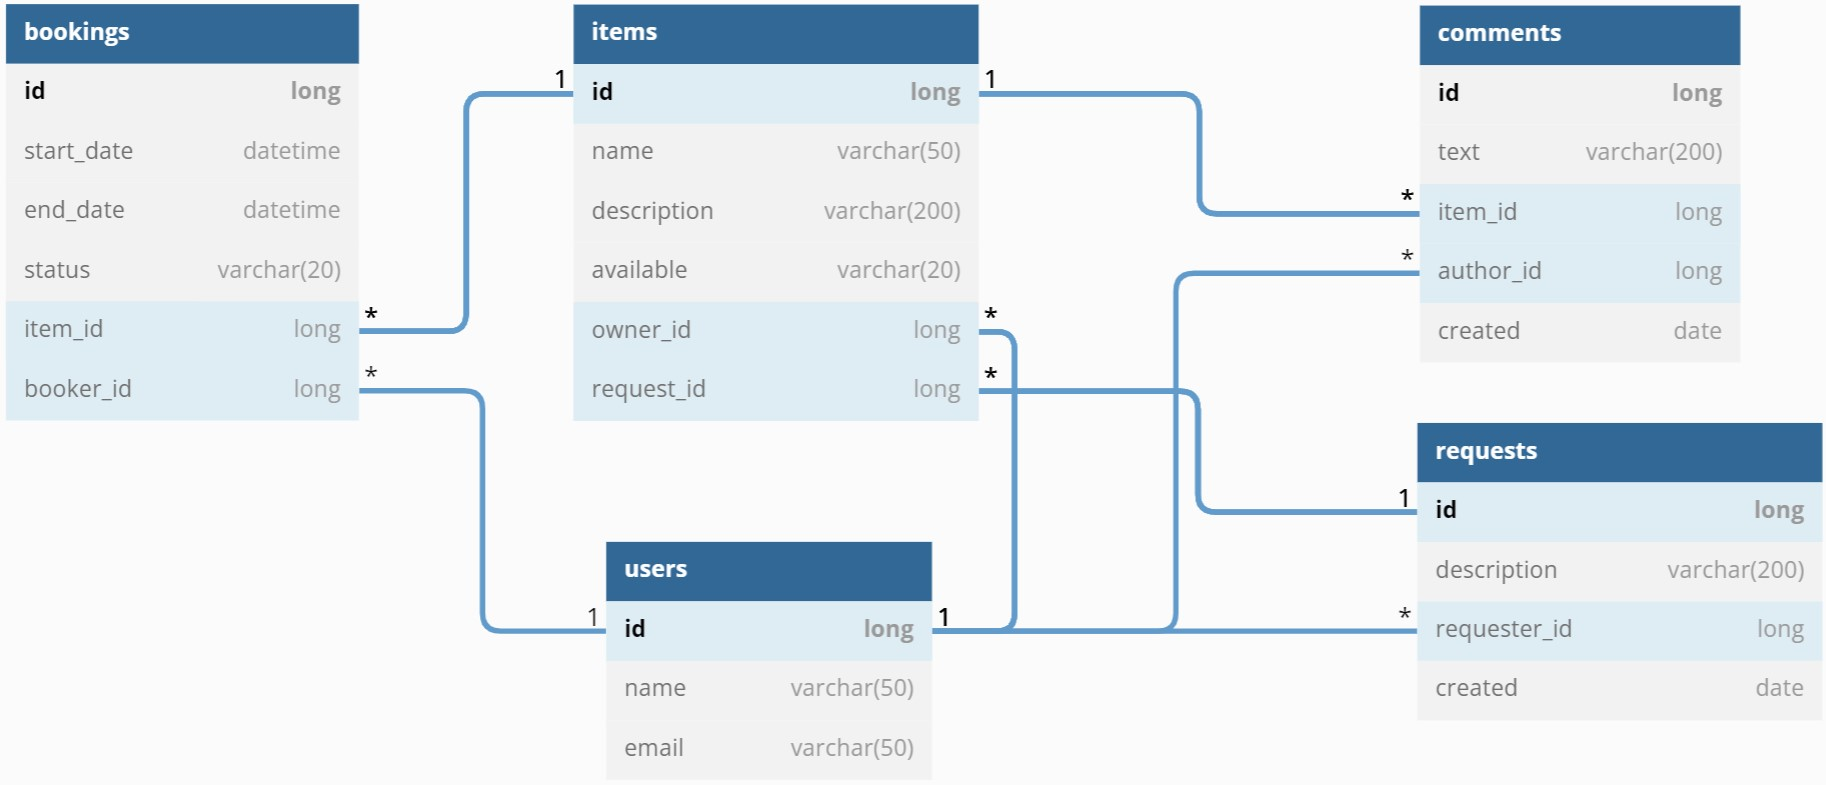
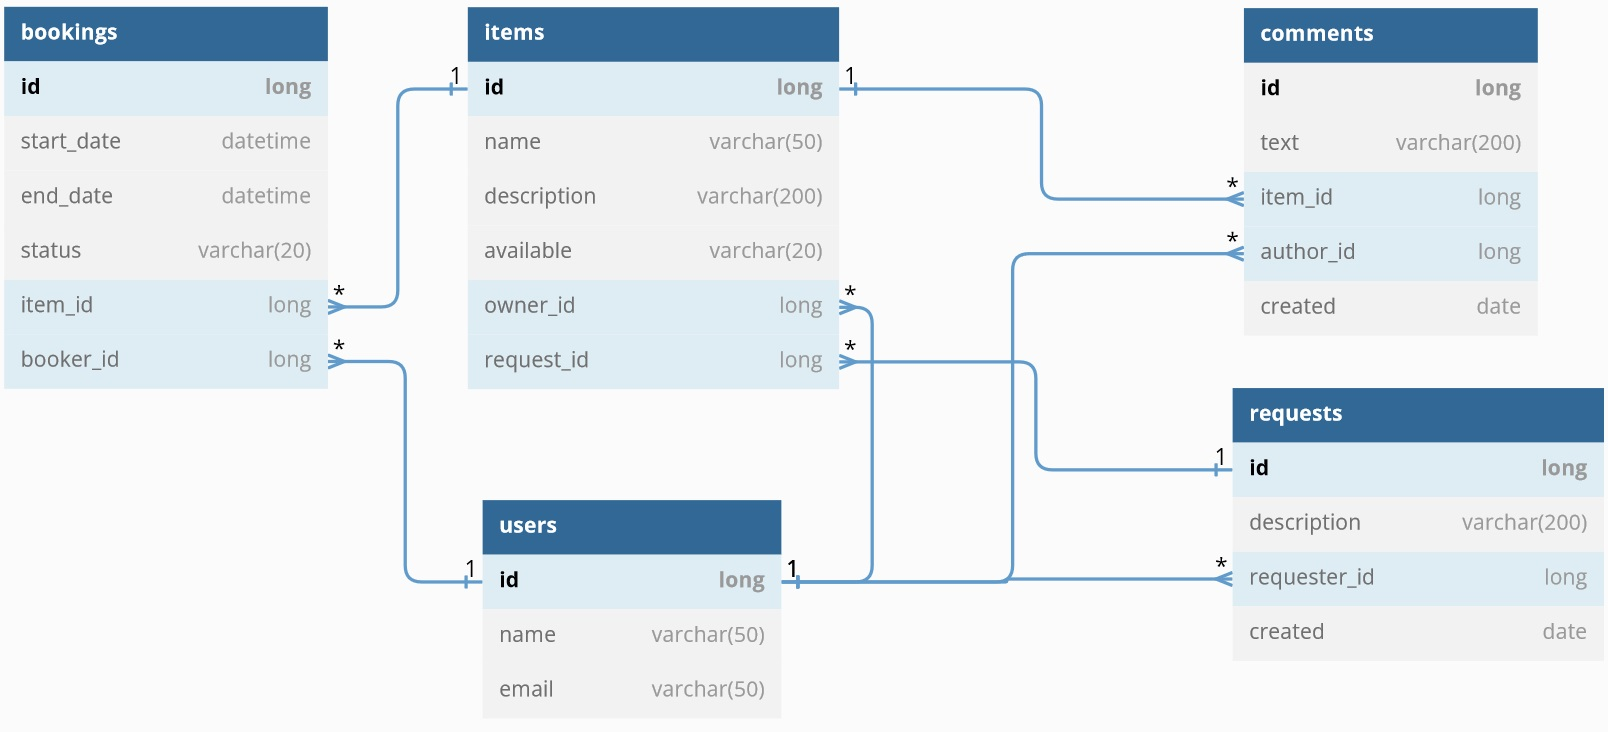
ref: отобразить связи на схеме БД. Поправить JavaDoc

diff --git a/server/src/main/java/ru/practicum/shareit/user/mapper/UserMapper.java b/server/src/main/java/ru/practicum/shareit/user/mapper/UserMapper.java
@@ -10,7 +10,7 @@ import ru.practicum.shareit.user.model.User;
 import java.util.List;
 
 /**
- * Маппер между объектами Item и ItemDto
+ * Маппер между объектами User и UserDto
  */
 @Mapper(componentModel = "spring")
 public interface UserMapper {
